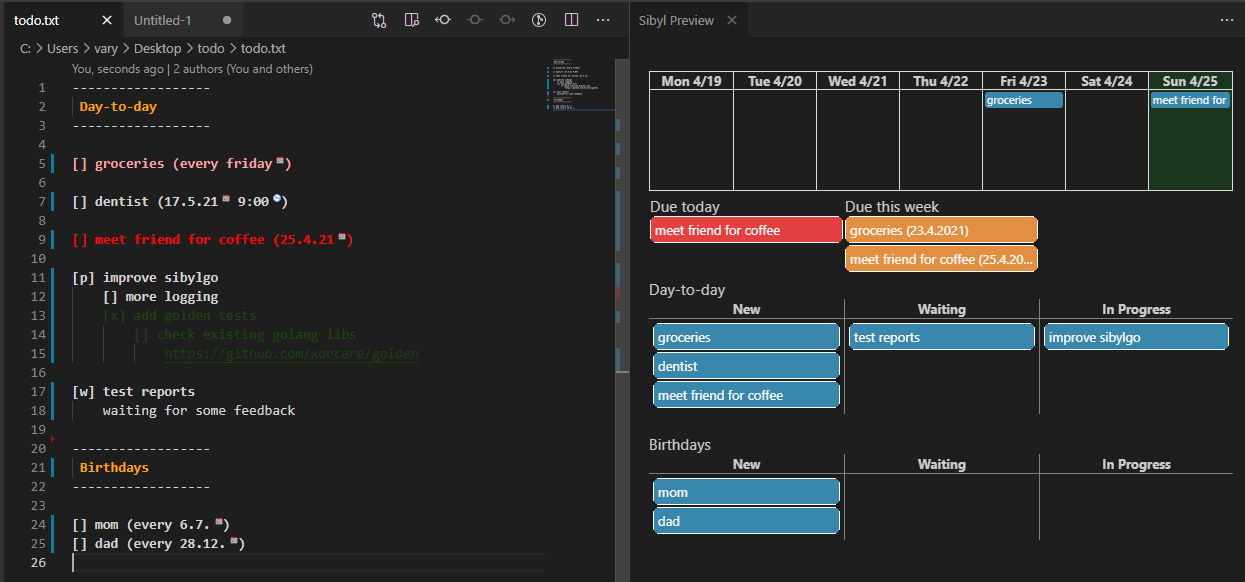
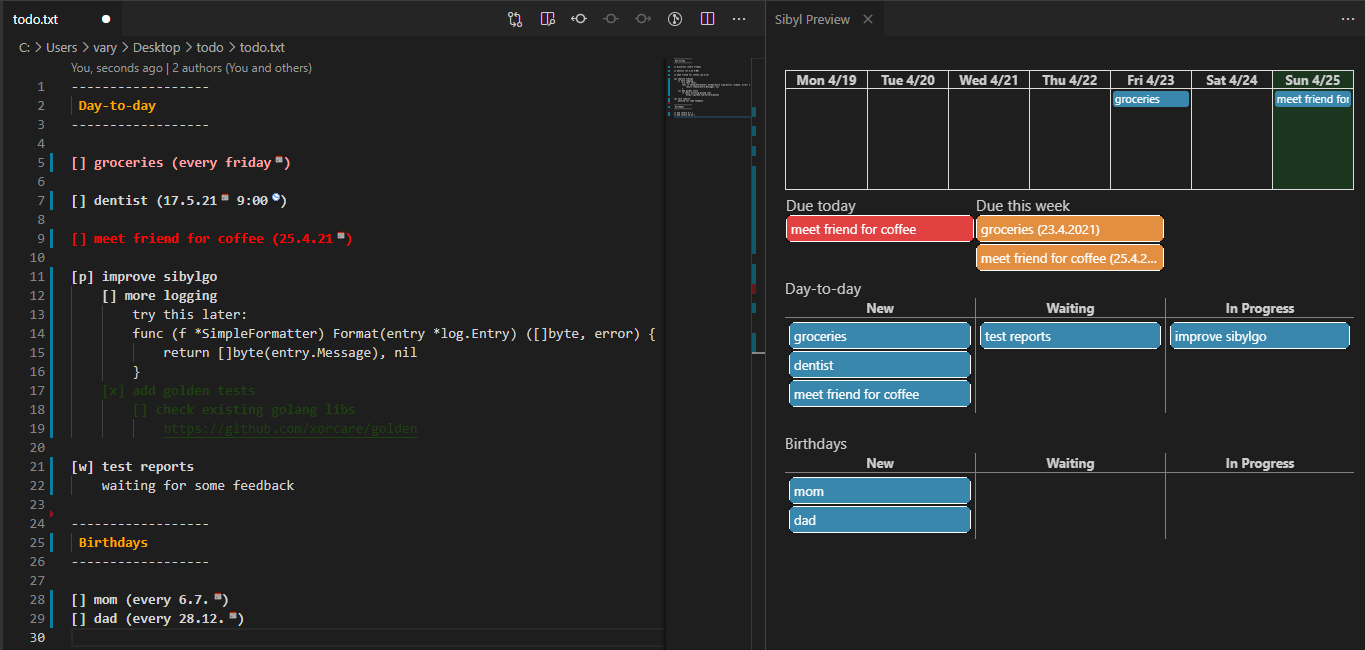
Emphasize comments for note taking

diff --git a/README.md b/README.md
@@ -12,7 +12,8 @@ You can add arbitrary additional text and comments to the todos. The application
 ## Features
 
 * Simple, human-readable text format
-* Hierarchical todos, recurring todos, arbitrary todo comments
+* Hierarchical todos, recurring todos, priorities, date ranges, due dates
+* Arbitrary comments under todos allow to keep a work log for each todo. E.g. copy-pasting shell commands used to complete a todo.
 * VSCode extension to view & edit your todo.txt with format highlighting
 * VSCode commands to `clean` and `trash` done todos. `clean` moves them to end of file, `trash` moves them to todo-trash.txt
 * VSCode preview panel with overview of upcoming todos and kanban-ish
